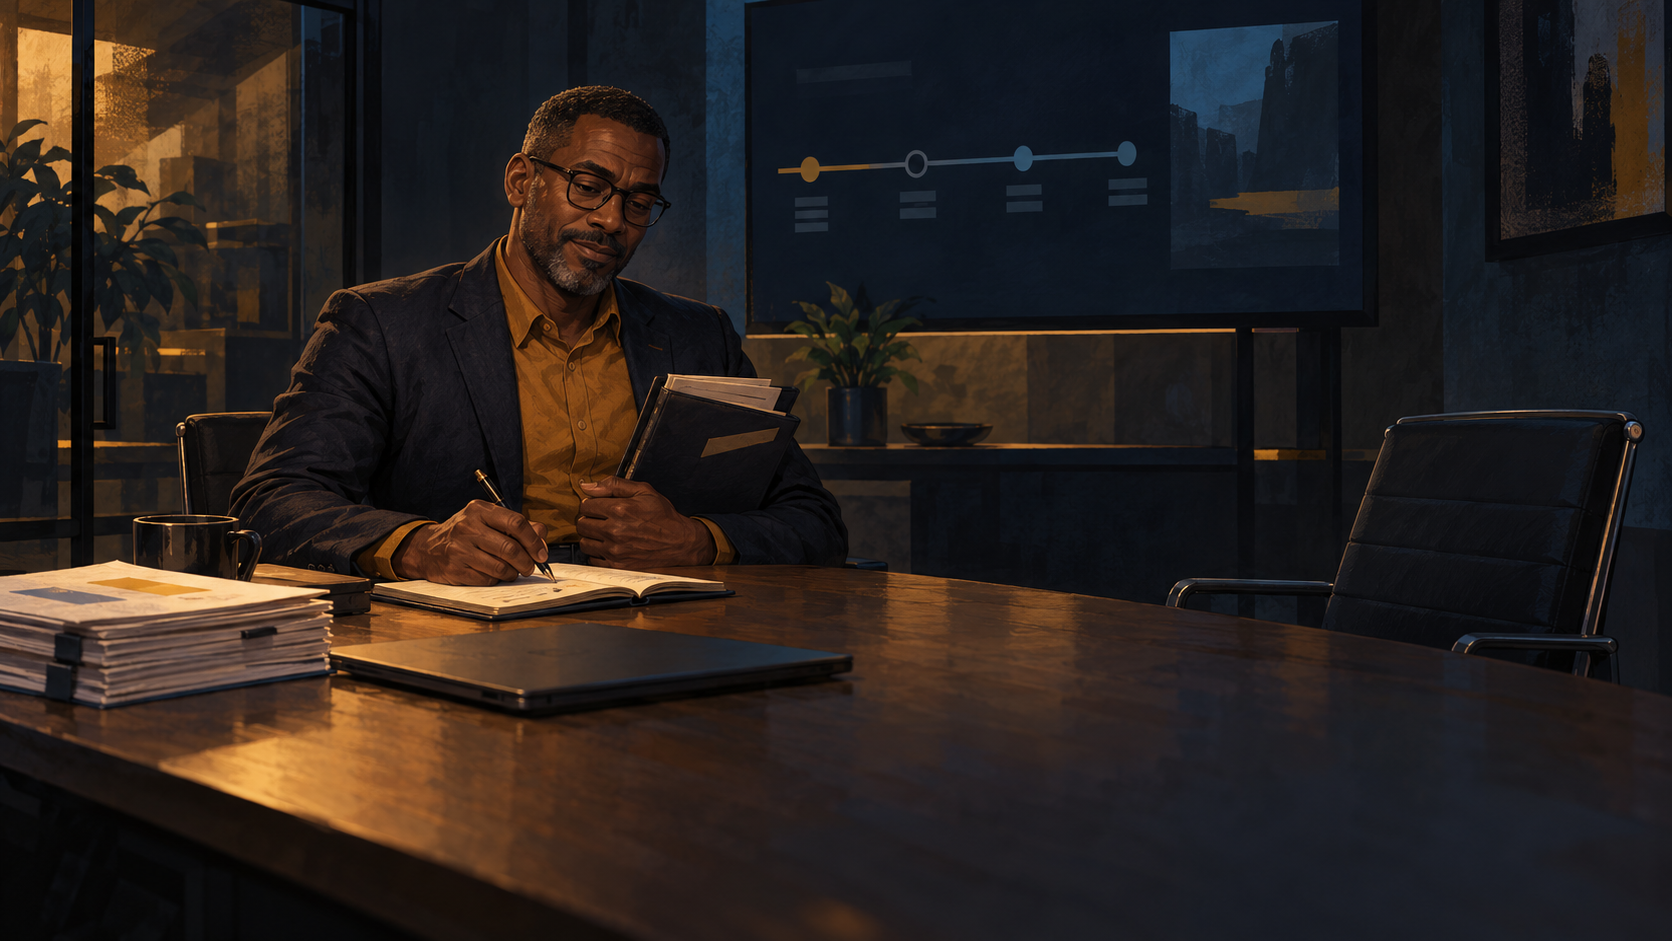
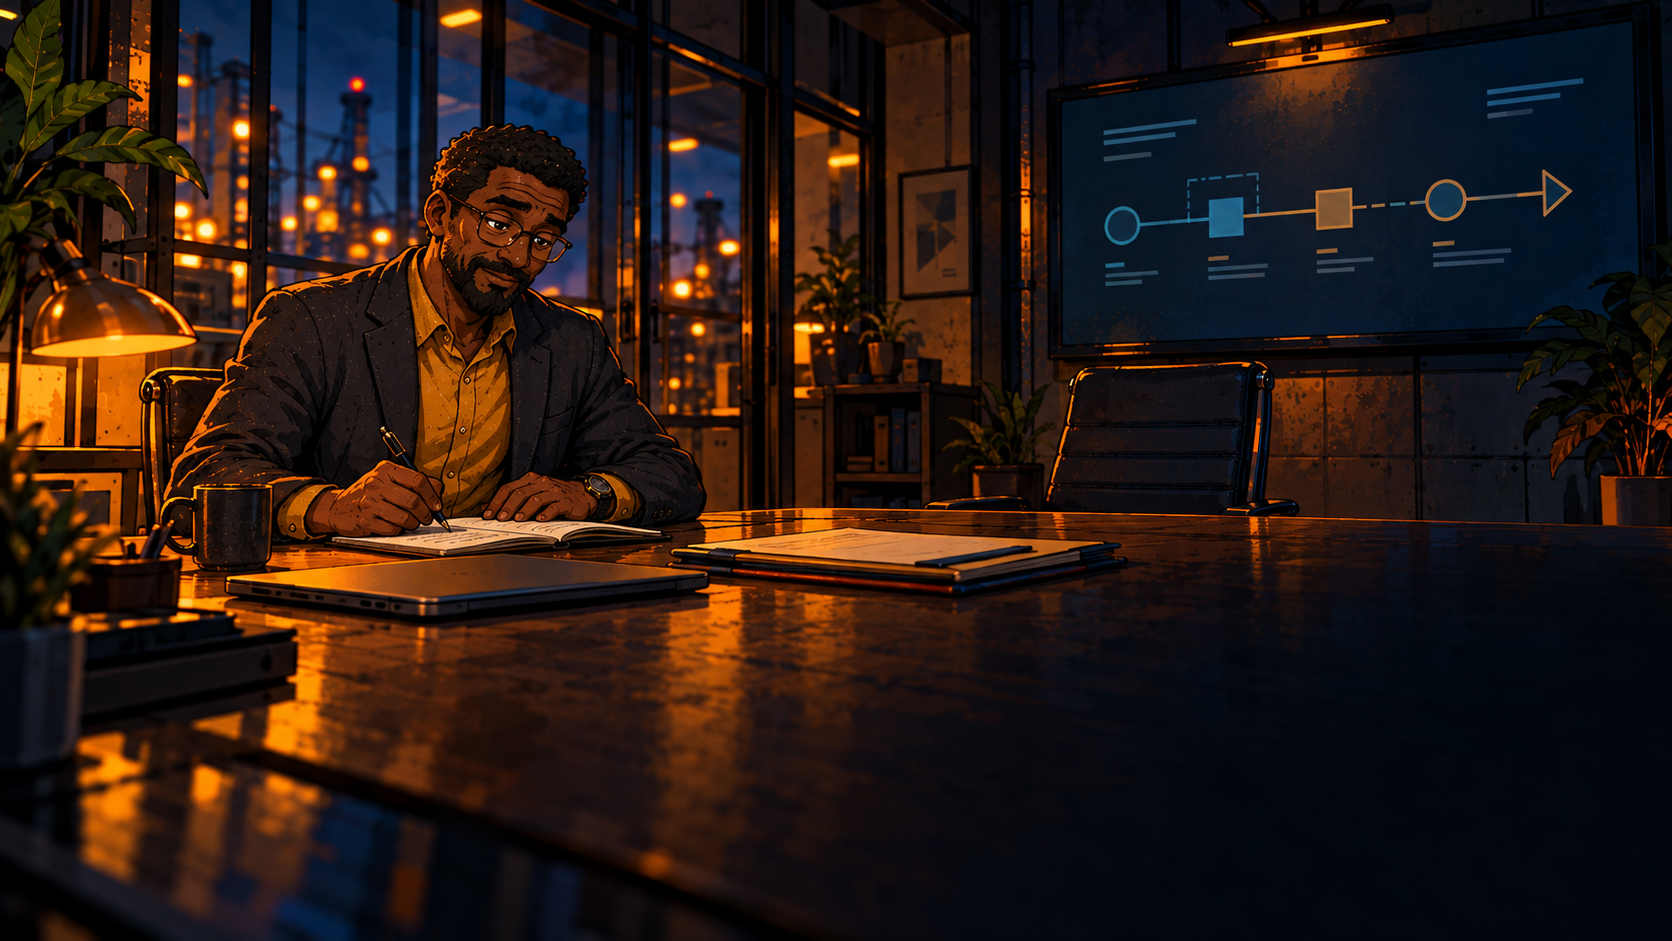
Redo Consultant client review scene

diff --git a/README.md b/README.md
@@ -21,3 +21,7 @@ Static main-menu workshop scene concept featuring The Hacker, generated with the
 - `menu-contractor-maintenance-bay.png` — Contractor in a server maintenance bay with tools.
 
 All are opaque landscape concept previews. They are hosted for review and are not integrated into the game yet.
+
+### Consultant redo
+
+`menu-consultant-client-review.png` has been replaced with the revised illustrated client-review scene (1672 × 941). The previous draft remains in Git history.
